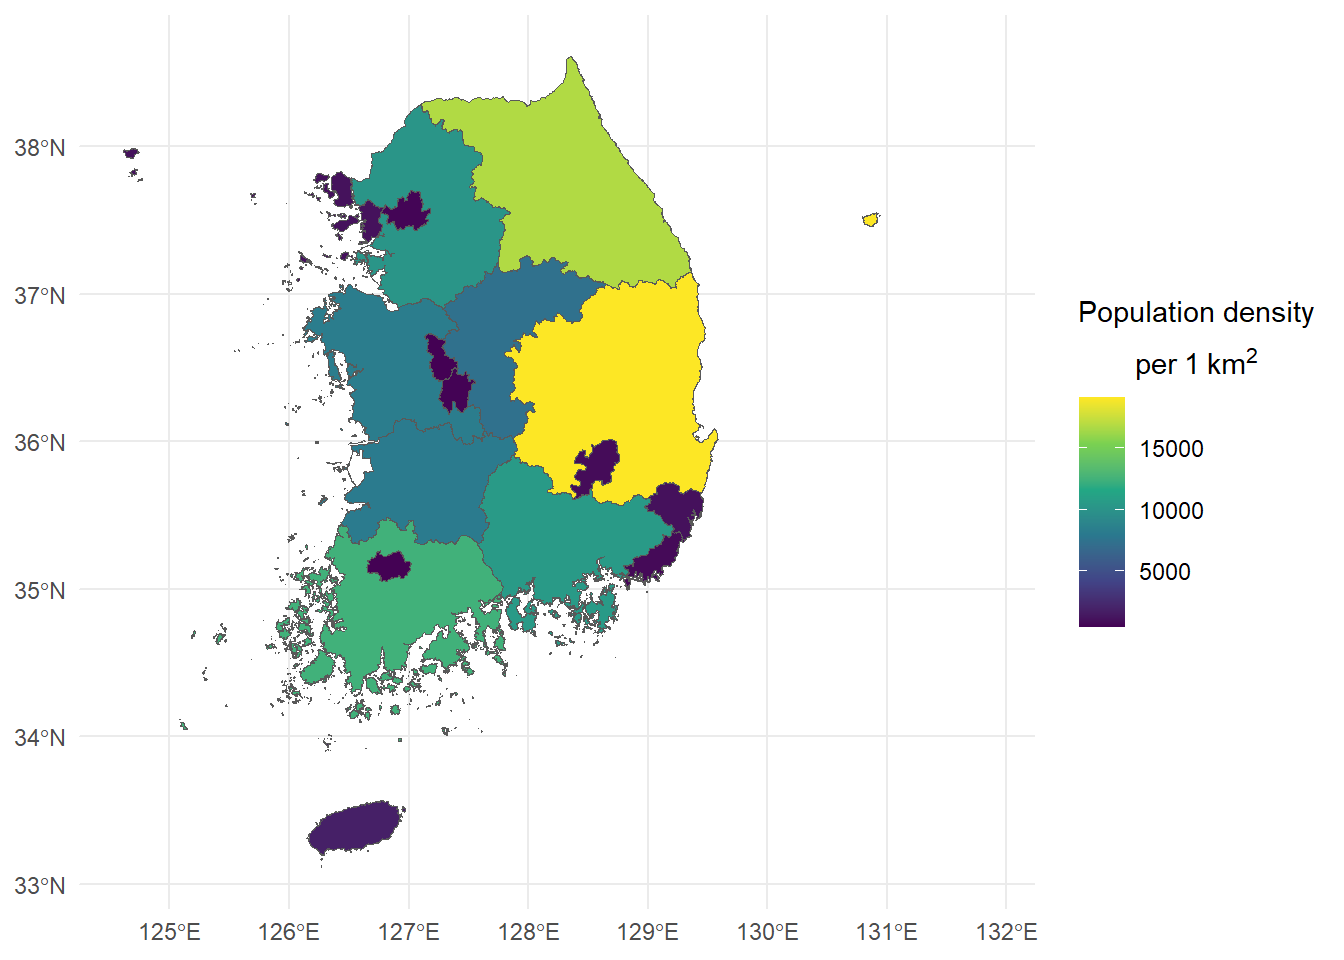
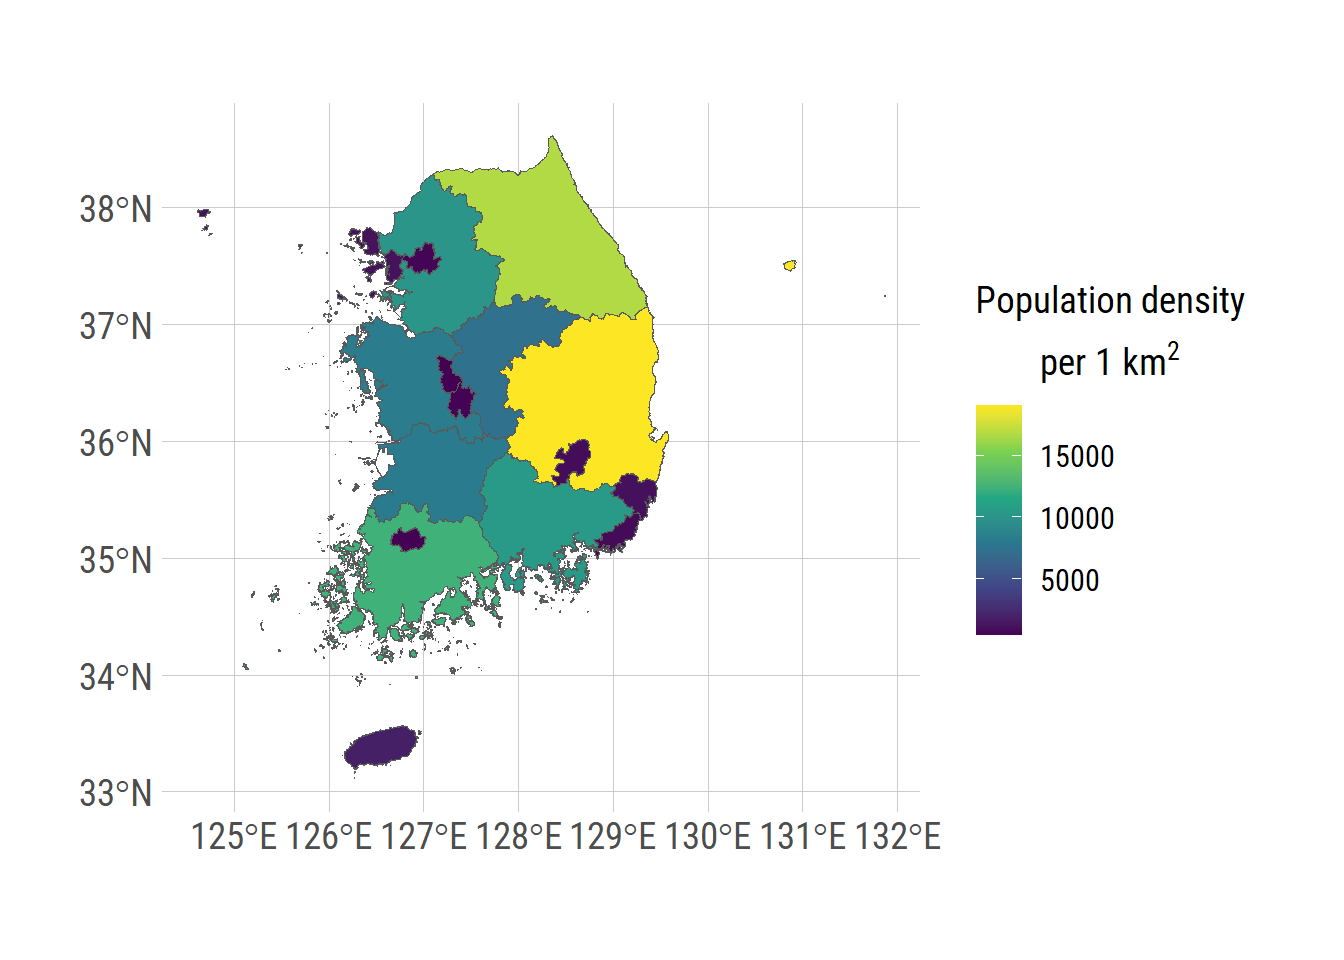
polygon area st_area edit

diff --git a/docs/index.html b/docs/index.html
@@ -142,7 +142,7 @@ ul.task-list li input[type="checkbox"] {
 <!-- margin-sidebar -->
     <div id="quarto-margin-sidebar" class="sidebar margin-sidebar">
         
-    <h5 class="quarto-listing-category-title">Categories</h5><div class="quarto-listing-category category-default"><div class="category" data-category="">All <span class="quarto-category-count">(40)</span></div><div class="category" data-category="API">API <span class="quarto-category-count">(1)</span></div><div class="category" data-category="COVID-19">COVID-19 <span class="quarto-category-count">(1)</span></div><div class="category" data-category="ChatGPT">ChatGPT <span class="quarto-category-count">(2)</span></div><div class="category" data-category="Gillespie's algorithm">Gillespie's algorithm <span class="quarto-category-count">(1)</span></div><div class="category" data-category="MCMC">MCMC <span class="quarto-category-count">(1)</span></div><div class="category" data-category="MLE">MLE <span class="quarto-category-count">(1)</span></div><div class="category" data-category="Monte Carlo">Monte Carlo <span class="quarto-category-count">(2)</span></div><div class="category" data-category="ODE">ODE <span class="quarto-category-count">(1)</span></div><div class="category" data-category="Poisson process">Poisson process <span class="quarto-category-count">(1)</span></div><div class="category" data-category="R">R <span class="quarto-category-count">(24)</span></div><div class="category" data-category="RColorBrewer">RColorBrewer <span class="quarto-category-count">(1)</span></div><div class="category" data-category="RcolorBrewer">RcolorBrewer <span class="quarto-category-count">(1)</span></div><div class="category" data-category="Rcpp">Rcpp <span class="quarto-category-count">(1)</span></div><div class="category" data-category="SEIR">SEIR <span class="quarto-category-count">(2)</span></div><div class="category" data-category="SIR">SIR <span class="quarto-category-count">(1)</span></div><div class="category" data-category="SymPy">SymPy <span class="quarto-category-count">(1)</span></div><div class="category" data-category="analysis">analysis <span class="quarto-category-count">(6)</span></div><div class="category" data-category="apartment">apartment <span class="quarto-category-count">(1)</span></div><div class="category" data-category="branching process">branching process <span class="quarto-category-count">(2)</span></div><div class="category" data-category="censor">censor <span class="quarto-category-count">(2)</span></div><div class="category" data-category="code">code <span class="quarto-category-count">(6)</span></div><div class="category" data-category="contact">contact <span class="quarto-category-count">(2)</span></div><div class="category" data-category="crop">crop <span class="quarto-category-count">(1)</span></div><div class="category" data-category="deterministic">deterministic <span class="quarto-category-count">(1)</span></div><div class="category" data-category="epidemic">epidemic <span class="quarto-category-count">(1)</span></div><div class="category" data-category="exponential growth">exponential growth <span class="quarto-category-count">(1)</span></div><div class="category" data-category="final epidemic size">final epidemic size <span class="quarto-category-count">(2)</span></div><div class="category" data-category="ggplot2">ggplot2 <span class="quarto-category-count">(2)</span></div><div class="category" data-category="httr">httr <span class="quarto-category-count">(2)</span></div><div class="category" data-category="importance sampling">importance sampling <span class="quarto-category-count">(1)</span></div><div class="category" data-category="interval censoring">interval censoring <span class="quarto-category-count">(3)</span></div><div class="category" data-category="likelihood ratio">likelihood ratio <span class="quarto-category-count">(1)</span></div><div class="category" data-category="map">map <span class="quarto-category-count">(1)</span></div><div class="category" data-category="mask">mask <span class="quarto-category-count">(1)</span></div><div class="category" data-category="maximum likelihood">maximum likelihood <span class="quarto-category-count">(4)</span></div><div class="category" data-category="modeling">modeling <span class="quarto-category-count">(2)</span></div><div class="category" data-category="multinomial">multinomial <span class="quarto-category-count">(1)</span></div><div class="category" data-category="news">news <span class="quarto-category-count">(3)</span></div><div class="category" data-category="nimble">nimble <span class="quarto-category-count">(1)</span></div><div class="category" data-category="odin">odin <span class="quarto-category-count">(1)</span></div><div class="category" data-category="optim">optim <span class="quarto-category-count">(1)</span></div><div class="category" data-category="optimize">optimize <span class="quarto-category-count">(1)</span></div><div class="category" data-category="paper">paper <span class="quarto-category-count">(1)</span></div><div class="category" data-category="parameter estimation">parameter estimation <span class="quarto-category-count">(6)</span></div><div class="category" data-category="particle filter">particle filter <span class="quarto-category-count">(3)</span></div><div class="category" data-category="philosophy">philosophy <span class="quarto-category-count">(1)</span></div><div class="category" data-category="pomp">pomp <span class="quarto-category-count">(1)</span></div><div class="category" data-category="posterior predictive check">posterior predictive check <span class="quarto-category-count">(1)</span></div><div class="category" data-category="profile likelihood">profile likelihood <span class="quarto-category-count">(5)</span></div><div class="category" data-category="raster">raster <span class="quarto-category-count">(2)</span></div><div class="category" data-category="regression">regression <span class="quarto-category-count">(4)</span></div><div class="category" data-category="reproduction number">reproduction number <span class="quarto-category-count">(1)</span></div><div class="category" data-category="right truncation">right truncation <span class="quarto-category-count">(1)</span></div><div class="category" data-category="serial interval">serial interval <span class="quarto-category-count">(3)</span></div><div class="category" data-category="sf">sf <span class="quarto-category-count">(3)</span></div><div class="category" data-category="shapefile">shapefile <span class="quarto-category-count">(2)</span></div><div class="category" data-category="size">size <span class="quarto-category-count">(1)</span></div><div class="category" data-category="stochastic">stochastic <span class="quarto-category-count">(1)</span></div><div class="category" data-category="tobit">tobit <span class="quarto-category-count">(1)</span></div><div class="category" data-category="trace plot">trace plot <span class="quarto-category-count">(1)</span></div><div class="category" data-category="uniroot">uniroot <span class="quarto-category-count">(1)</span></div><div class="category" data-category="writing">writing <span class="quarto-category-count">(1)</span></div><div class="category" data-category="xml">xml <span class="quarto-category-count">(2)</span></div></div></div>
+    <h5 class="quarto-listing-category-title">Categories</h5><div class="quarto-listing-category category-default"><div class="category" data-category="">All <span class="quarto-category-count">(40)</span></div><div class="category" data-category="API">API <span class="quarto-category-count">(1)</span></div><div class="category" data-category="COVID-19">COVID-19 <span class="quarto-category-count">(1)</span></div><div class="category" data-category="ChatGPT">ChatGPT <span class="quarto-category-count">(2)</span></div><div class="category" data-category="Gillespie's algorithm">Gillespie's algorithm <span class="quarto-category-count">(1)</span></div><div class="category" data-category="MCMC">MCMC <span class="quarto-category-count">(1)</span></div><div class="category" data-category="MLE">MLE <span class="quarto-category-count">(1)</span></div><div class="category" data-category="Monte Carlo">Monte Carlo <span class="quarto-category-count">(2)</span></div><div class="category" data-category="ODE">ODE <span class="quarto-category-count">(1)</span></div><div class="category" data-category="Poisson process">Poisson process <span class="quarto-category-count">(1)</span></div><div class="category" data-category="R">R <span class="quarto-category-count">(24)</span></div><div class="category" data-category="RColorBrewer">RColorBrewer <span class="quarto-category-count">(2)</span></div><div class="category" data-category="Rcpp">Rcpp <span class="quarto-category-count">(1)</span></div><div class="category" data-category="SEIR">SEIR <span class="quarto-category-count">(2)</span></div><div class="category" data-category="SIR">SIR <span class="quarto-category-count">(1)</span></div><div class="category" data-category="SymPy">SymPy <span class="quarto-category-count">(1)</span></div><div class="category" data-category="analysis">analysis <span class="quarto-category-count">(6)</span></div><div class="category" data-category="apartment">apartment <span class="quarto-category-count">(1)</span></div><div class="category" data-category="branching process">branching process <span class="quarto-category-count">(2)</span></div><div class="category" data-category="censor">censor <span class="quarto-category-count">(2)</span></div><div class="category" data-category="code">code <span class="quarto-category-count">(6)</span></div><div class="category" data-category="contact">contact <span class="quarto-category-count">(2)</span></div><div class="category" data-category="crop">crop <span class="quarto-category-count">(1)</span></div><div class="category" data-category="deterministic">deterministic <span class="quarto-category-count">(1)</span></div><div class="category" data-category="epidemic">epidemic <span class="quarto-category-count">(1)</span></div><div class="category" data-category="exponential growth">exponential growth <span class="quarto-category-count">(1)</span></div><div class="category" data-category="final epidemic size">final epidemic size <span class="quarto-category-count">(2)</span></div><div class="category" data-category="ggplot2">ggplot2 <span class="quarto-category-count">(2)</span></div><div class="category" data-category="httr">httr <span class="quarto-category-count">(2)</span></div><div class="category" data-category="importance sampling">importance sampling <span class="quarto-category-count">(1)</span></div><div class="category" data-category="interval censoring">interval censoring <span class="quarto-category-count">(3)</span></div><div class="category" data-category="likelihood ratio">likelihood ratio <span class="quarto-category-count">(1)</span></div><div class="category" data-category="map">map <span class="quarto-category-count">(1)</span></div><div class="category" data-category="mask">mask <span class="quarto-category-count">(1)</span></div><div class="category" data-category="maximum likelihood">maximum likelihood <span class="quarto-category-count">(4)</span></div><div class="category" data-category="modeling">modeling <span class="quarto-category-count">(2)</span></div><div class="category" data-category="multinomial">multinomial <span class="quarto-category-count">(1)</span></div><div class="category" data-category="news">news <span class="quarto-category-count">(3)</span></div><div class="category" data-category="nimble">nimble <span class="quarto-category-count">(1)</span></div><div class="category" data-category="odin">odin <span class="quarto-category-count">(1)</span></div><div class="category" data-category="optim">optim <span class="quarto-category-count">(1)</span></div><div class="category" data-category="optimize">optimize <span class="quarto-category-count">(1)</span></div><div class="category" data-category="paper">paper <span class="quarto-category-count">(1)</span></div><div class="category" data-category="parameter estimation">parameter estimation <span class="quarto-category-count">(6)</span></div><div class="category" data-category="particle filter">particle filter <span class="quarto-category-count">(3)</span></div><div class="category" data-category="philosophy">philosophy <span class="quarto-category-count">(1)</span></div><div class="category" data-category="pomp">pomp <span class="quarto-category-count">(1)</span></div><div class="category" data-category="posterior predictive check">posterior predictive check <span class="quarto-category-count">(1)</span></div><div class="category" data-category="profile likelihood">profile likelihood <span class="quarto-category-count">(5)</span></div><div class="category" data-category="raster">raster <span class="quarto-category-count">(2)</span></div><div class="category" data-category="regression">regression <span class="quarto-category-count">(4)</span></div><div class="category" data-category="reproduction number">reproduction number <span class="quarto-category-count">(1)</span></div><div class="category" data-category="right truncation">right truncation <span class="quarto-category-count">(1)</span></div><div class="category" data-category="serial interval">serial interval <span class="quarto-category-count">(3)</span></div><div class="category" data-category="sf">sf <span class="quarto-category-count">(3)</span></div><div class="category" data-category="shapefile">shapefile <span class="quarto-category-count">(2)</span></div><div class="category" data-category="size">size <span class="quarto-category-count">(1)</span></div><div class="category" data-category="stochastic">stochastic <span class="quarto-category-count">(1)</span></div><div class="category" data-category="tobit">tobit <span class="quarto-category-count">(1)</span></div><div class="category" data-category="trace plot">trace plot <span class="quarto-category-count">(1)</span></div><div class="category" data-category="uniroot">uniroot <span class="quarto-category-count">(1)</span></div><div class="category" data-category="writing">writing <span class="quarto-category-count">(1)</span></div><div class="category" data-category="xml">xml <span class="quarto-category-count">(2)</span></div></div></div>
 <!-- main -->
 <main class="content quarto-banner-title-block column-page-left" id="quarto-document-content">
 
@@ -1024,9 +1024,9 @@ Jong-Hoon Kim
 </a>
 </div>
 </div>
-<div class="quarto-post image-right" data-index="21" data-categories="R,shapefile,ggplot2,sf,raster,RcolorBrewer" data-listing-date-sort="1693321200000" data-listing-file-modified-sort="1697426187523" data-listing-date-modified-sort="NaN" data-listing-reading-time-sort="1">
+<div class="quarto-post image-right" data-index="21" data-categories="R,shapefile,ggplot2,sf,raster,RColorBrewer" data-listing-date-sort="1693321200000" data-listing-file-modified-sort="1701002820974" data-listing-date-modified-sort="NaN" data-listing-reading-time-sort="1">
 <div class="thumbnail">
-<p><a href="./posts/area-polygon/index.html"> <img src="./posts/area-polygon/thumbnail.jpg" class="thumbnail-image"> </a></p>
+<p><a href="./posts/area-polygon/index.html"> <img src="./posts/area-polygon/southkorea_map.png" class="thumbnail-image"> </a></p>
 </div>
 <div class="body">
 <a href="./posts/area-polygon/index.html">
@@ -1053,8 +1053,8 @@ sf
 <div class="listing-category" onclick="window.quartoListingCategory('raster'); return false;">
 raster
 </div>
-<div class="listing-category" onclick="window.quartoListingCategory('RcolorBrewer'); return false;">
-RcolorBrewer
+<div class="listing-category" onclick="window.quartoListingCategory('RColorBrewer'); return false;">
+RColorBrewer
 </div>
 </div>
 <a href="./posts/area-polygon/index.html">

diff --git a/docs/posts/area-polygon/index.html b/docs/posts/area-polygon/index.html
@@ -149,7 +149,7 @@ pre > code.sourceCode > span > a:first-child::before { text-decoration: underlin
                 <div class="quarto-category">ggplot2</div>
                 <div class="quarto-category">sf</div>
                 <div class="quarto-category">raster</div>
-                <div class="quarto-category">RcolorBrewer</div>
+                <div class="quarto-category">RColorBrewer</div>
               </div>
                   </div>
   </div>
@@ -213,13 +213,17 @@ Geodetic CRS:  WGS 84</code></pre>
 <span id="cb3-12"><a href="#cb3-12" aria-hidden="true" tabindex="-1"></a></span>
 <span id="cb3-13"><a href="#cb3-13" aria-hidden="true" tabindex="-1"></a><span class="co"># plot population density</span></span>
 <span id="cb3-14"><a href="#cb3-14" aria-hidden="true" tabindex="-1"></a><span class="fu">library</span>(ggplot2)</span>
-<span id="cb3-15"><a href="#cb3-15" aria-hidden="true" tabindex="-1"></a>labels <span class="ot">=</span> <span class="fu">expression</span>(<span class="fu">atop</span>(<span class="st">"Population density"</span>, per<span class="sc">~</span><span class="dv">1</span><span class="sc">~</span>km<span class="sc">^</span><span class="dv">2</span>))</span>
-<span id="cb3-16"><a href="#cb3-16" aria-hidden="true" tabindex="-1"></a>plt <span class="ot">&lt;-</span> <span class="fu">ggplot</span>(kor)<span class="sc">+</span></span>
-<span id="cb3-17"><a href="#cb3-17" aria-hidden="true" tabindex="-1"></a>  <span class="fu">geom_sf</span>(<span class="fu">aes</span>(<span class="at">fill=</span>area_sqkm1))<span class="sc">+</span></span>
-<span id="cb3-18"><a href="#cb3-18" aria-hidden="true" tabindex="-1"></a>  <span class="fu">scale_fill_viridis_c</span>(<span class="at">name=</span>labels) <span class="sc">+</span></span>
-<span id="cb3-19"><a href="#cb3-19" aria-hidden="true" tabindex="-1"></a>  <span class="fu">theme_minimal</span>()<span class="sc">+</span></span>
-<span id="cb3-20"><a href="#cb3-20" aria-hidden="true" tabindex="-1"></a>  <span class="fu">theme</span>(<span class="at">legend.position=</span><span class="st">"right"</span>)</span>
-<span id="cb3-21"><a href="#cb3-21" aria-hidden="true" tabindex="-1"></a>plt</span></code><button title="Copy to Clipboard" class="code-copy-button"><i class="bi"></i></button></pre></div>
+<span id="cb3-15"><a href="#cb3-15" aria-hidden="true" tabindex="-1"></a><span class="fu">theme_set</span>(hrbrthemes<span class="sc">::</span><span class="fu">theme_ipsum_rc</span>(<span class="at">base_size=</span><span class="dv">14</span>, <span class="at">subtitle_size=</span><span class="dv">16</span>, <span class="at">axis_title_size=</span><span class="dv">12</span>))</span>
+<span id="cb3-16"><a href="#cb3-16" aria-hidden="true" tabindex="-1"></a>extrafont<span class="sc">::</span><span class="fu">loadfonts</span>()</span>
+<span id="cb3-17"><a href="#cb3-17" aria-hidden="true" tabindex="-1"></a></span>
+<span id="cb3-18"><a href="#cb3-18" aria-hidden="true" tabindex="-1"></a>labels <span class="ot">=</span> <span class="fu">expression</span>(<span class="fu">atop</span>(<span class="st">"Population density"</span>, per<span class="sc">~</span><span class="dv">1</span><span class="sc">~</span>km<span class="sc">^</span><span class="dv">2</span>))</span>
+<span id="cb3-19"><a href="#cb3-19" aria-hidden="true" tabindex="-1"></a>plt <span class="ot">&lt;-</span> <span class="fu">ggplot</span>(kor)<span class="sc">+</span></span>
+<span id="cb3-20"><a href="#cb3-20" aria-hidden="true" tabindex="-1"></a>  <span class="fu">geom_sf</span>(<span class="fu">aes</span>(<span class="at">fill=</span>area_sqkm1))<span class="sc">+</span></span>
+<span id="cb3-21"><a href="#cb3-21" aria-hidden="true" tabindex="-1"></a>  <span class="fu">scale_fill_viridis_c</span>(<span class="at">name=</span>labels) <span class="sc">+</span></span>
+<span id="cb3-22"><a href="#cb3-22" aria-hidden="true" tabindex="-1"></a>  <span class="fu">theme</span>(<span class="at">legend.position=</span><span class="st">"right"</span>)</span>
+<span id="cb3-23"><a href="#cb3-23" aria-hidden="true" tabindex="-1"></a></span>
+<span id="cb3-24"><a href="#cb3-24" aria-hidden="true" tabindex="-1"></a><span class="co"># ggsave("southkorea_map.png", gg, units="in", width=3.4*2, height=2.7*2)  </span></span>
+<span id="cb3-25"><a href="#cb3-25" aria-hidden="true" tabindex="-1"></a>plt</span></code><button title="Copy to Clipboard" class="code-copy-button"><i class="bi"></i></button></pre></div>
 <div class="cell-output-display">
 <p><img src="index_files/figure-html/unnamed-chunk-1-1.png" class="img-fluid" width="672"></p>
 </div>
